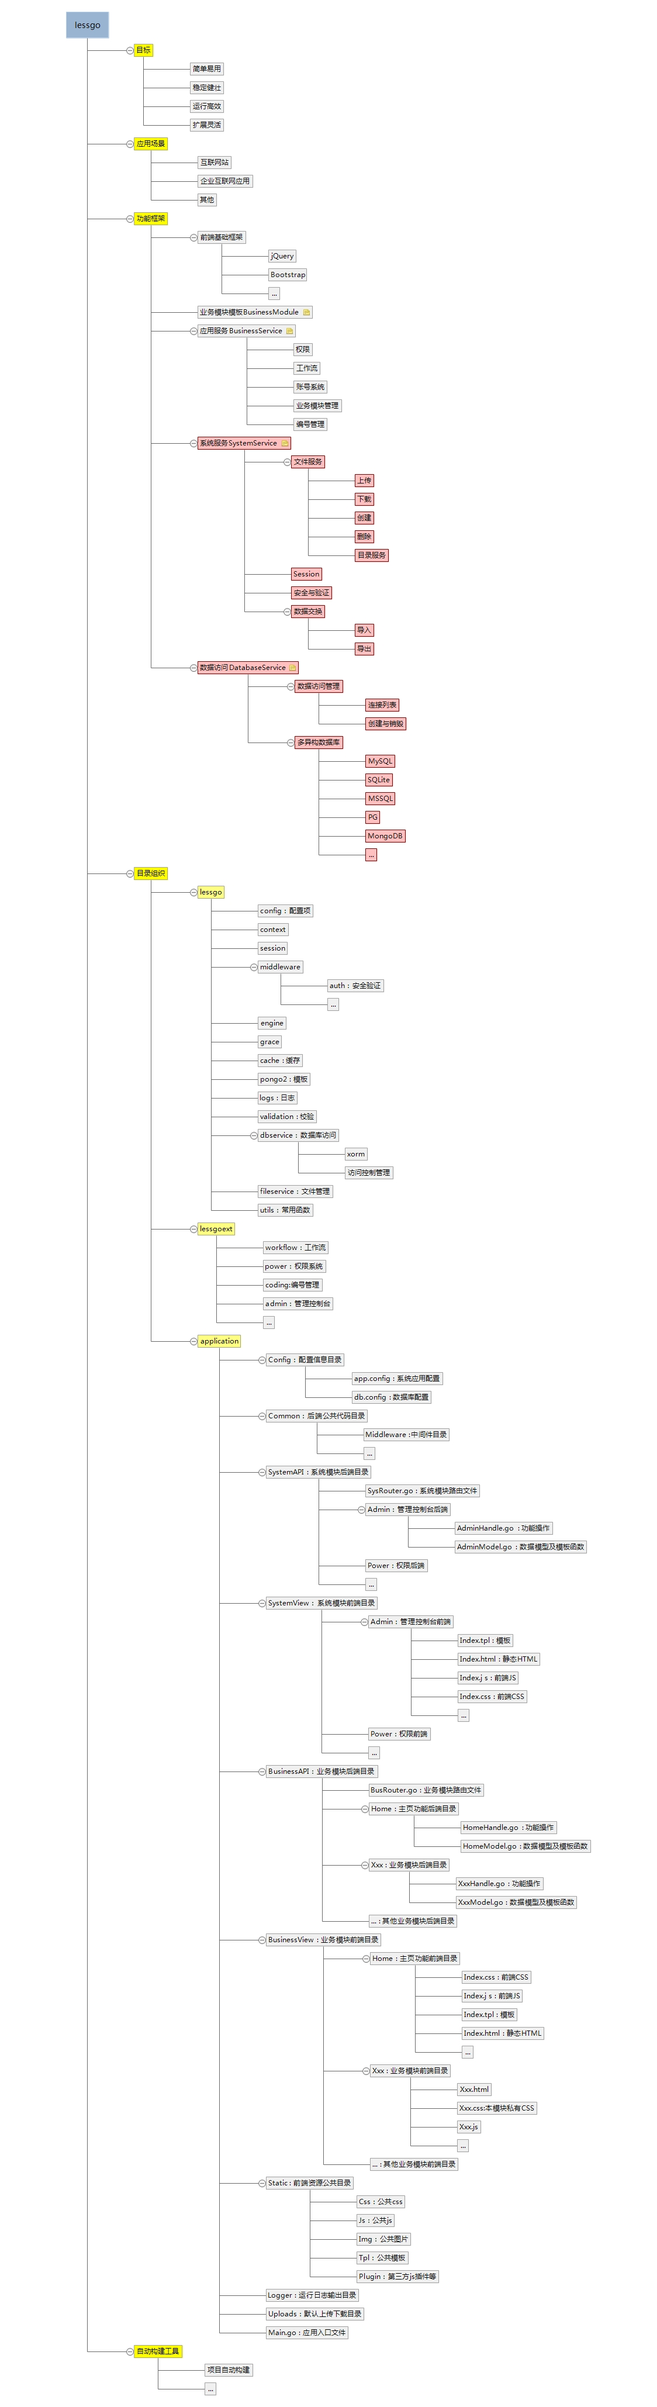
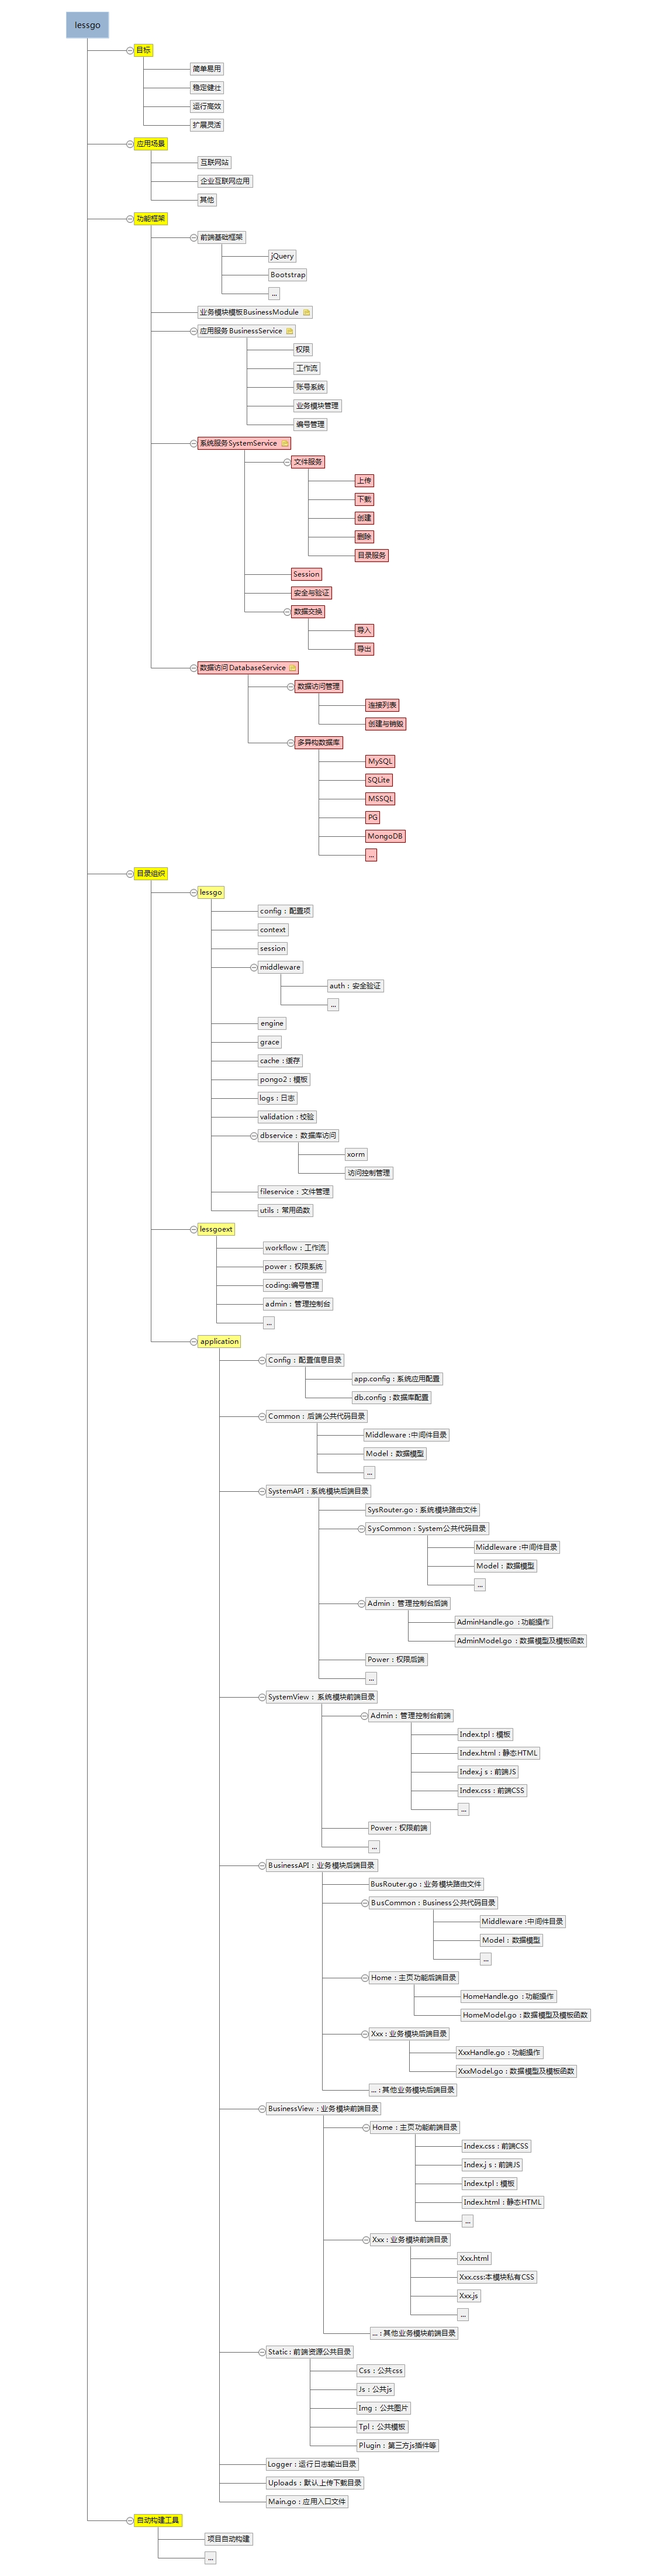
组织目录加强 增加SysCommon、BusCommon目录 各Common目录增加Model目录

diff --git a/README.md b/README.md
@@ -49,6 +49,7 @@ $ lessgo run
 │  └─db.config 数据库配置文件
 ├─Common 后端公共目录
 │  ├─Middleware 中间件目录
+│  └─Model 数据模型
 │  └─... 其他
 ├─Static 前端公共目录 (url: /static)
 │  ├─Tpl 公共tpl模板目录
@@ -58,6 +59,10 @@ $ lessgo run
 │  └─Plugin 公共js插件 (url: /static/plugin)
 ├─SystemAPI 系统模块后端目录
 │  ├─SysRouter.go 系统模块路由文件
+│  ├─SysCommon 后端公共目录
+│  │  ├─Middleware 中间件目录
+│  │  └─Model 数据模型
+│  │  └─... 其他
 │  ├─Xxx Xxx子模块目录
 │  │  ├─ExampleHandle.go Example操作
 │  │  ├─ExampleModel.go Example数据模型及模板函数
@@ -72,6 +77,10 @@ $ lessgo run
 │  │  └─... Xxx的子模块目录
 ├─BusinessAPI 业务模块后端目录
 │  ├─BusRouter.go 业务模块路由文件
+│  ├─BusCommon Business公共目录
+│  │  ├─Middleware 中间件目录
+│  │  └─Model 数据模型
+│  │  └─... 其他
 │  ├─Xxx Xxx子模块目录
 │  │  ├─ExampleHandle.go Example操作
 │  │  ├─ExampleModel.go Example数据模型及模板函数
